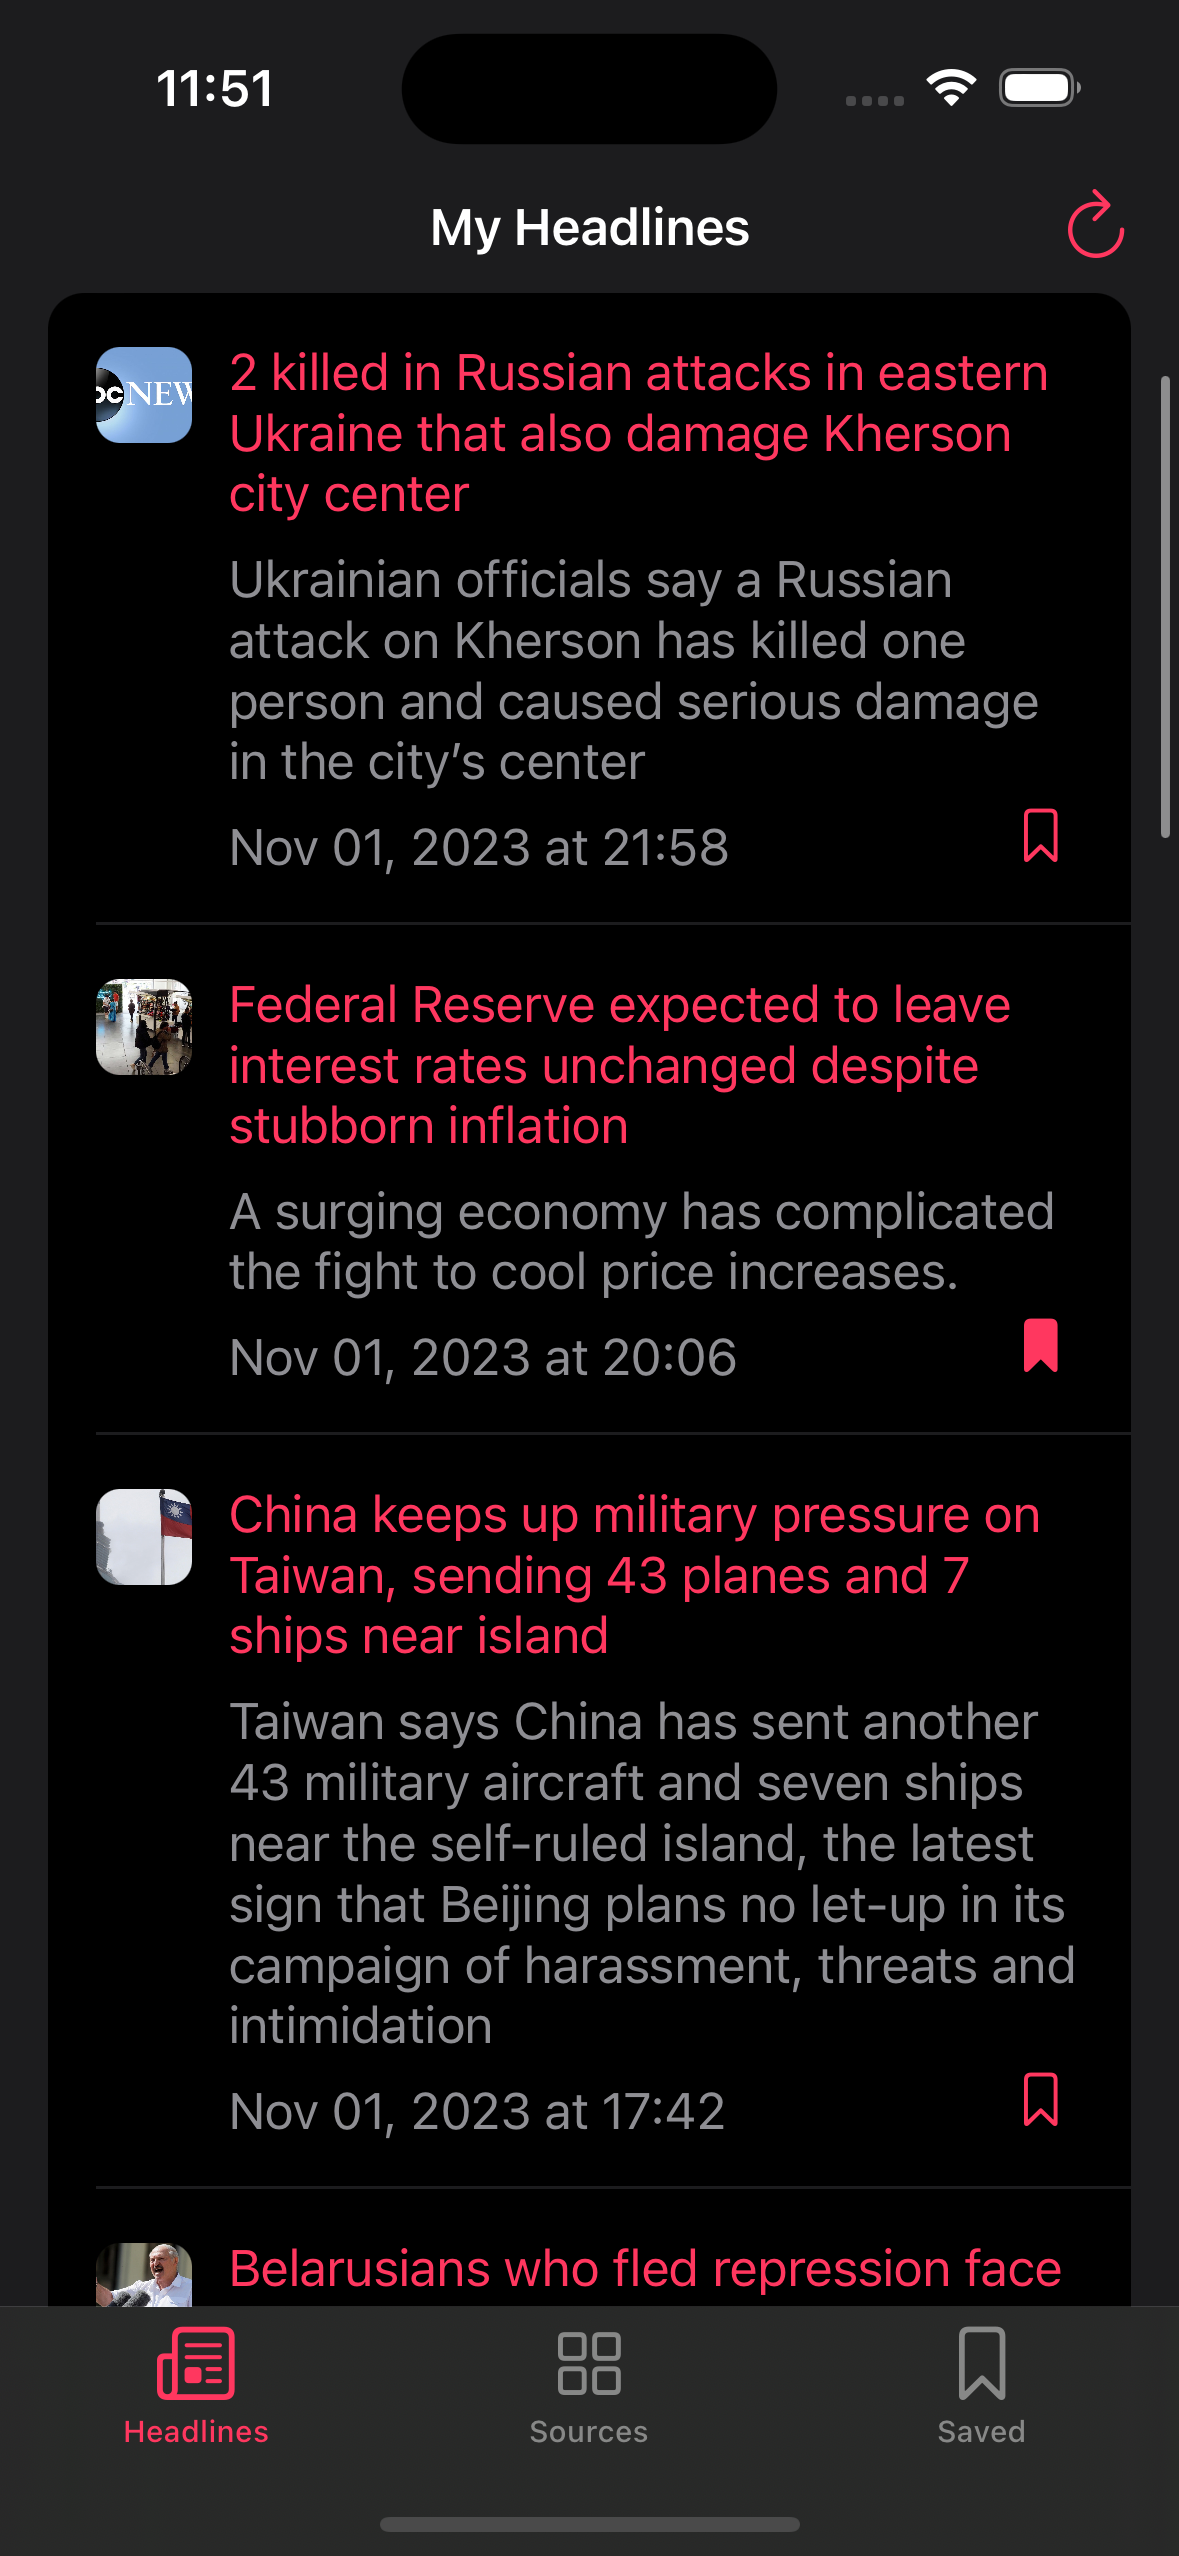
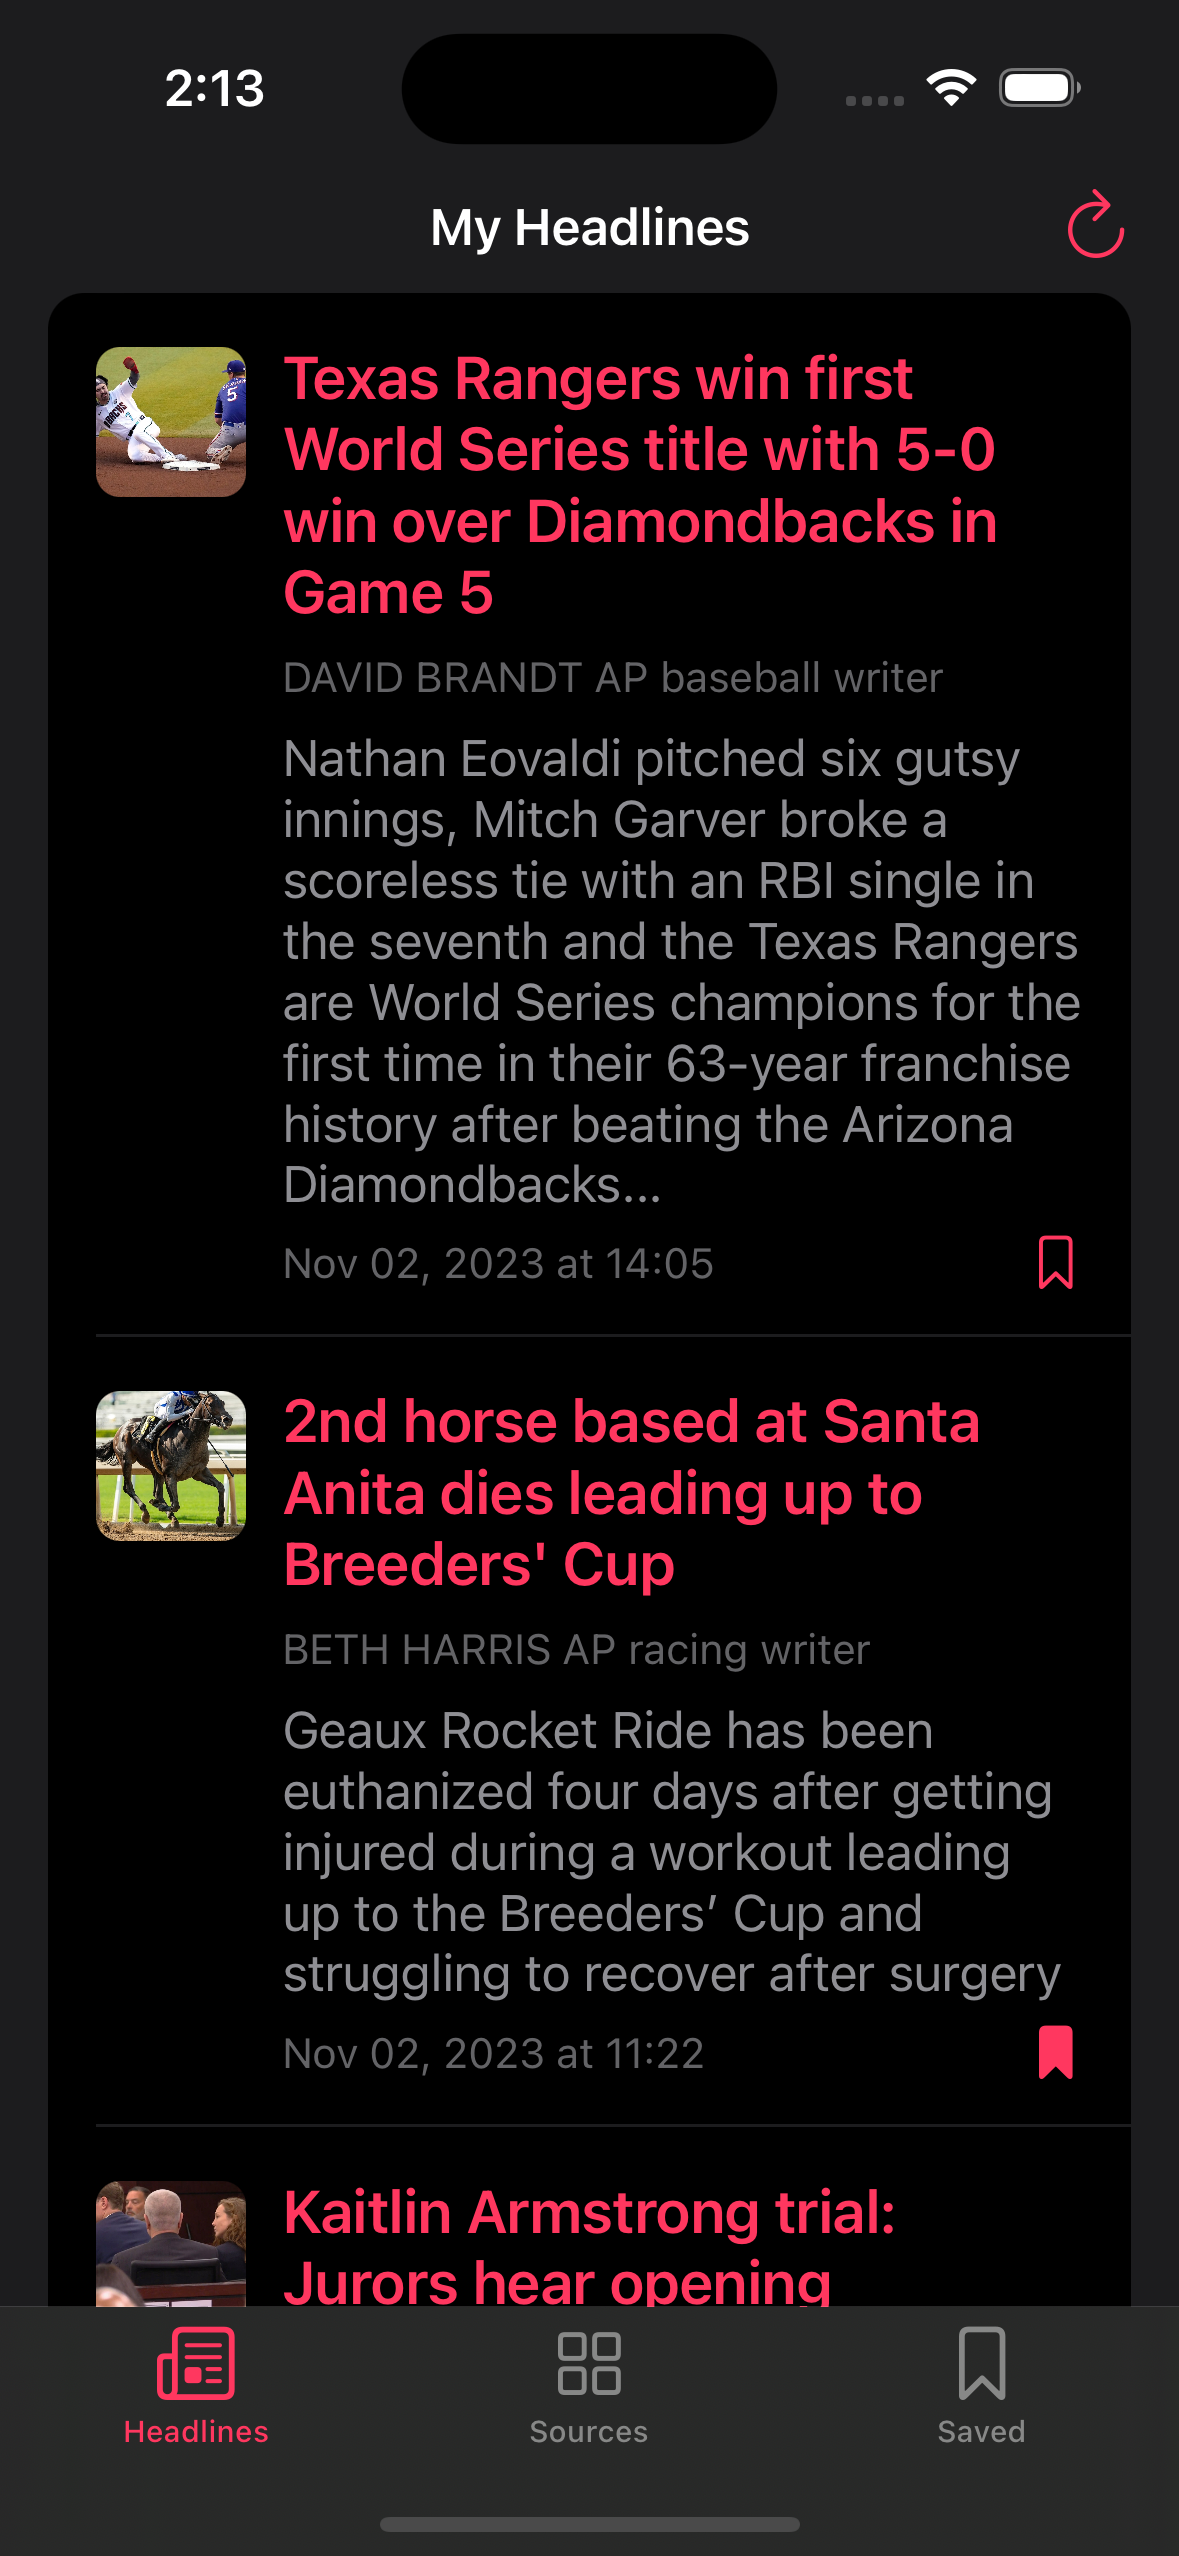
make thumbnail picture bigger and update Readme screenshots

diff --git a/LukeNewsApp/Scenes/Headlines/ArticleListCell.swift b/LukeNewsApp/Scenes/Headlines/ArticleListCell.swift
@@ -35,6 +35,7 @@ class ArticleListCell: UICollectionViewCell, ReusableView {
         
         titleLabel.text = content.title
         descriptionLabel.text = content.description ?? "Tap to see details"
+        authorLabel.text = content.author
         
         let dateText = content.publishedAt.formatDateToReadableStyle()
         dateLabel.text = dateText ?? "Unknown Date"
@@ -43,11 +44,11 @@ class ArticleListCell: UICollectionViewCell, ReusableView {
     }
     
     private func setupUI() {
-        contentView.addSubViews(articleImageView, titleLabel, descriptionLabel, dateLabel, separatorLine, saveButton)
+        contentView.addSubViews(articleImageView, titleLabel, authorLabel, descriptionLabel, dateLabel, separatorLine, saveButton)
         
         articleImageView.snp.makeConstraints { make in
             make.leading.equalToSuperview().offset(16)
-            make.size.equalTo(32)
+            make.size.equalTo(50)
             make.top.equalToSuperview().offset(18)
         }
         
@@ -57,11 +58,16 @@ class ArticleListCell: UICollectionViewCell, ReusableView {
             make.top.equalToSuperview().offset(16)
         }
         
-        descriptionLabel.snp.makeConstraints { make in
+        authorLabel.snp.makeConstraints { make in
             make.leading.trailing.equalTo(titleLabel)
             make.top.equalTo(titleLabel.snp.bottom).offset(8)
         }
         
+        descriptionLabel.snp.makeConstraints { make in
+            make.leading.trailing.equalTo(titleLabel)
+            make.top.equalTo(authorLabel.snp.bottom).offset(8)
+        }
+
         dateLabel.snp.makeConstraints { make in
             make.leading.trailing.equalTo(titleLabel)
             make.top.equalTo(descriptionLabel.snp.bottom).offset(8)
@@ -77,7 +83,7 @@ class ArticleListCell: UICollectionViewCell, ReusableView {
         
         saveButton.snp.makeConstraints { make in
             make.bottom.trailing.equalToSuperview()
-            make.size.equalTo(60)
+            make.size.equalTo(50)
         }
         
         saveButton.addTarget(self, action: #selector(tappedOnSaveButton), for: .touchUpInside)
@@ -104,6 +110,7 @@ class ArticleListCell: UICollectionViewCell, ReusableView {
         let label = UILabel()
         label.numberOfLines = 0
         label.textColor = .systemPink
+        label.font = .boldSystemFont(ofSize: 20)
         return label
     }()
     
@@ -114,10 +121,19 @@ class ArticleListCell: UICollectionViewCell, ReusableView {
         return label
     }()
     
+    private let authorLabel: UILabel = {
+        let label = UILabel()
+        label.numberOfLines = 0
+        label.textColor = .systemGray2
+        label.font = .systemFont(ofSize: 14)
+        return label
+    }()
+    
     private let dateLabel: UILabel = {
         let label = UILabel()
         label.numberOfLines = 0
-        label.textColor = .systemGray
+        label.textColor = .systemGray2
+        label.font = .systemFont(ofSize: 14)
         return label
     }()
     

diff --git a/LukeNewsAppTests/ViewModels/SavedArticlesViewModelTests.swift b/LukeNewsAppTests/ViewModels/SavedArticlesViewModelTests.swift
@@ -33,8 +33,8 @@ class SavedArticlesViewModelTests: XCTestCase {
     func testLoadData_withSavedArticles() {
         // Given
         let savedArticles = [
-            ArticleCellContent(title: "Article 1", description: "Description 1", content: nil, url: "https://example.com/1", urlToImage: nil, publishedAt: "2023-10-11T11:00:00Z", isSaved: true),
-            ArticleCellContent(title: "Article 2", description: "Description 2", content: nil, url: "https://example.com/2", urlToImage: nil, publishedAt: "2022-10-11T11:00:00Z", isSaved: true)
+            ArticleCellContent(title: "Article 1", description: "Description 1", author: "author 1", content: nil, url: "https://example.com/1", urlToImage: nil, publishedAt: "2023-10-11T11:00:00Z", isSaved: true),
+            ArticleCellContent(title: "Article 2", description: "Description 2", author: "author 2", content: nil, url: "https://example.com/2", urlToImage: nil, publishedAt: "2022-10-11T11:00:00Z", isSaved: true)
         ]
         
         mockSavedArticlesManager.savedArticles = savedArticles
@@ -58,7 +58,7 @@ class SavedArticlesViewModelTests: XCTestCase {
     
     func testRemoveSavedArticle() {
         // Given
-        let articleToRemove = ArticleCellContent(title: "Article 1", description: "Description 1", content: nil, url: "https://example.com/1", urlToImage: nil, publishedAt: "2023-10-11T11:00:00Z", isSaved: true)
+        let articleToRemove = ArticleCellContent(title: "Article 1", description: "Description 1", author: "author 1", content: nil, url: "https://example.com/1", urlToImage: nil, publishedAt: "2023-10-11T11:00:00Z", isSaved: true)
         mockSavedArticlesManager.savedArticles = [articleToRemove]
         
         // When

diff --git a/LukeNewsApp/Models/Article.swift b/LukeNewsApp/Models/Article.swift
@@ -23,6 +23,7 @@ extension Article {
         return ArticleCellContent(
             title: self.title,
             description: self.description,
+            author: self.author,
             content: self.content,
             url: self.url,
             urlToImage: self.urlToImage,

diff --git a/LukeNewsApp/Models/ArticleCellContent.swift b/LukeNewsApp/Models/ArticleCellContent.swift
@@ -10,6 +10,7 @@ import Foundation
 struct ArticleCellContent: Hashable, Codable {
     let title: String
     let description: String?
+    let author: String?
     let content: String?
     let url: String
     let urlToImage: String?
